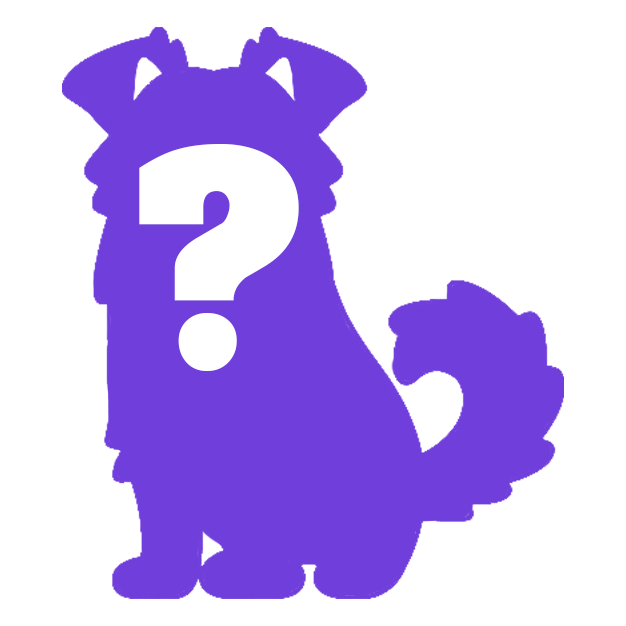
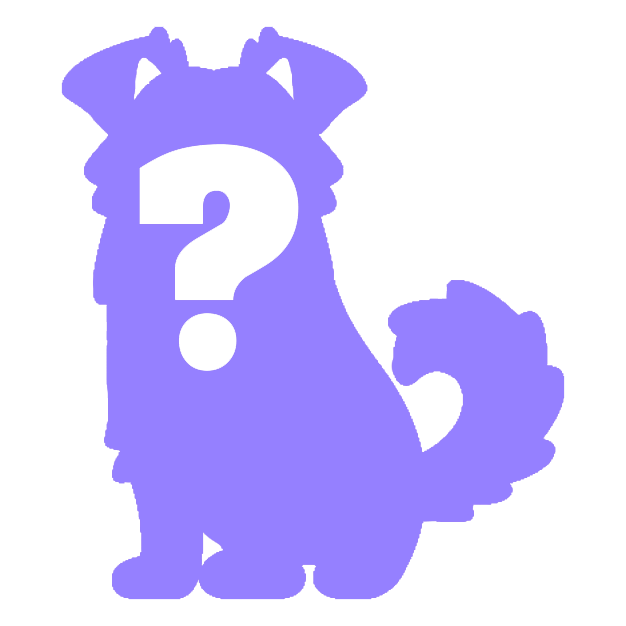
DraculaUI Theme

diff --git a/src/components/PetsDetails.jsx b/src/components/PetsDetails.jsx
@@ -3,7 +3,7 @@ import styled from 'styled-components'
 const HomeDetails = styled.div`
     a:hover {
         transition: 1s;
-        color: #d2c4ff;
+        color: #ccc;
     }
 
     .titlePets {
@@ -49,7 +49,7 @@ const HomeDetails = styled.div`
         justify-content: center;
         align-items: center;
         padding: 20px 0px;
-        background: #50a773;
+        background: #9580ff;
         border: none;
         font-weight: 500;
         text-decoration: none;
@@ -57,7 +57,7 @@ const HomeDetails = styled.div`
         color: #fff;
 
         :hover {
-            color: #703edb;
+            color: #ccc;
         }
         @media (max-width: 768px) {
             i {
@@ -77,15 +77,15 @@ const HomeDetails = styled.div`
         justify-content: center;
         align-items: center;
         padding: 20px 0px;
-        background: #e0d754;
+        background: #9580ff;
         border: none;
         font-weight: 500;
         text-decoration: none;
         outline: none;
-        color: #181818;
+        color: #fff;
 
         :hover {
-            color: #703edb;
+            color: #ccc;
         }
     }
 
@@ -163,8 +163,7 @@ const HomeDetails = styled.div`
         }
 
         :hover {
-            background: #ccc;
-            color: #703edb;
+            background: #15171b;
             transition: .3s;
         }
     }

diff --git a/src/pages/Pets.jsx b/src/pages/Pets.jsx
@@ -2,10 +2,11 @@ import React, {useEffect, useState} from 'react'
 import PetsDetails from '../components/PetsDetails'
 import Footer from '../components/Footer'
 import AddPetButton from '../components/AddPetButton'
-import Logo from '../../assets/logo-white.png'
+import Logo from '../../assets/logo.png'
 import imageNotFound from '../../assets/imagenotfound.png'
 
 import PetServices from '../services/pet.services'
+import Navigation from '../components/Navigation'
 
 function Pets() {
     const [Pets, setPets] = useState([])
@@ -21,13 +22,7 @@ function Pets() {
 
     return (
         <PetsDetails>
-            <nav>
-                <a href="/cadastro" className="items">😨 Perdi meu bichinho</a>
-                {/* <a href="/cadastro" className="items">😱 Encontrei um bichinho</a> */}
-                <a href="/pets"><img src={Logo} alt="Logo"/></a>
-                <a href="/cadastro" className="items">🥰 Quero adotar um animalzinho</a>
-                {/* <a href="/maps" className="items">📌 Localizar um animalzinho</a> */}
-            </nav>
+            <Navigation/>
 
             <a href="/cadastro" className="advice">
                 <i className="uil uil-shield-exclamation"></i>&nbsp;Você perdeu um animal? Está querendo doar um? Ou encontrou um perdido? Cadastre ele!&nbsp;<i className="uil uil-shield-exclamation"></i>

diff --git a/src/pages/SignUp.jsx b/src/pages/SignUp.jsx
@@ -2,10 +2,9 @@ import React, { useState } from 'react'
 import PetsDetails from '../components/PetsDetails'
 import Footer from '../components/Footer'
 import FormSignUpDetails from '../components/FormSignUpDetails'
-import { useNavigate } from 'react-router-dom'
 
-import Logo from '../../assets/logo-white.png'
 import PetServices from '../services/pet.services'
+import Navigation from '../components/Navigation'
 
 const SignUp = () => {
     const [PetName, setPetName] = useState('');
@@ -75,13 +74,7 @@ const SignUp = () => {
     return (
         <>
             <PetsDetails>
-                <nav>
-                    <a href="/cadastro">Perdi meu bichinho</a>
-                    <a href="/cadastro">Encontrei um bichinho</a>
-                    <a href="/pets"><img src={Logo} alt="Logo" /></a>
-                    <a href="/cadastro">Quero adotar um animalzinho</a>
-                    <a href="/maps">Localizar um animalzinho</a>
-                </nav>
+            <Navigation/>
 
                 <a href="/cadastro" className="advice-yellow">
                     <i className="uil uil-shield-exclamation"></i>&nbsp;

diff --git a/src/components/AddPetButtonDetails.jsx b/src/components/AddPetButtonDetails.jsx
@@ -2,11 +2,12 @@ import styled from 'styled-components'
 
 const AddPetButtonDetails = styled.div`
     .firstButton {
-        background: #50a773;
+        background: #1d1e26;
         width: 50px;
         height: 50px;
-        color: #fff;
+        color: #9580ff;
         position: fixed;
+        border: 1px solid #9580ff;
         bottom: 20px;
         right: 0px;
         z-index: 99;
@@ -16,12 +17,13 @@ const AddPetButtonDetails = styled.div`
 
         :hover {
             transition: 1s;
-            background: #62ca8c;
+            background: #9580ff;
+            color: #fff;
         }
     }
 
     .secondButton {
-        background: #50a773;
+        background: #1d1e26;
         width: 50px;
         height: 50px;
         color: #fff;
@@ -35,7 +37,8 @@ const AddPetButtonDetails = styled.div`
 
         :hover {
             transition: 1s;
-            background: #62ca8c;
+            background: #9580ff;
+            color: #fff;
         }
     }
 `

diff --git a/src/App.css b/src/App.css
@@ -1,5 +1,5 @@
 :root {
-    --first-color: #703edb;
+    --first-color: #1d1e26;
     --font-color: #f7f7f7;
 }
 
@@ -18,11 +18,11 @@ body::-webkit-scrollbar {
 }
   
 body::-webkit-scrollbar-track {
-    background: #50a773;        /* color of the tracking area */
+    background: #7159c1;        /* color of the tracking area */
 }
   
 body::-webkit-scrollbar-thumb {
-    background-color: #8e6bdb;    /* color of the scroll thumb */
+    background-color: #9580ff;    /* color of the scroll thumb */
     border-radius: 20px;       /* roundness of the scroll thumb */  /* creates padding around scroll thumb */
 }
 

diff --git a/src/components/Navigation.jsx b/src/components/Navigation.jsx
@@ -1,0 +1,16 @@
+import React from 'react'
+import Logo from '../../assets/logo-white.png'
+
+const Navigation = () => {
+  return (
+    <nav>
+        <a href="/cadastro" className="items">😨 Perdi meu bichinho</a>
+        {/* <a href="/cadastro" className="items">😱 Encontrei um bichinho</a> */}
+        <a href="/pets"><img src={Logo} alt="Logo"/></a>
+        <a href="/cadastro" className="items">🥰 Quero adotar um animalzinho</a>
+        {/* <a href="/maps" className="items">📌 Localizar um animalzinho</a> */}
+    </nav>
+  )
+}
+
+export default Navigation

diff --git a/src/components/FormSignUpDetails.jsx b/src/components/FormSignUpDetails.jsx
@@ -8,8 +8,9 @@ const FormSignUpDetails = styled.div`
 
     form {
         margin-top: 20px;
+        margin-bottom: 1rem;
         padding: 20px 40px;
-        background: #703edb;
+        background: #1d1e26;
         box-shadow: #9a48ff 0px 0px 50px;
         border-radius: 15px;
 

diff --git a/src/utils/Colors.jsx b/src/utils/Colors.jsx
@@ -1,5 +1,5 @@
 const Colors = {
-    "purple": '#703edb',
+    "purple": '#9580ff',
     "purpleLight": '#a48fe9'
 }
 
